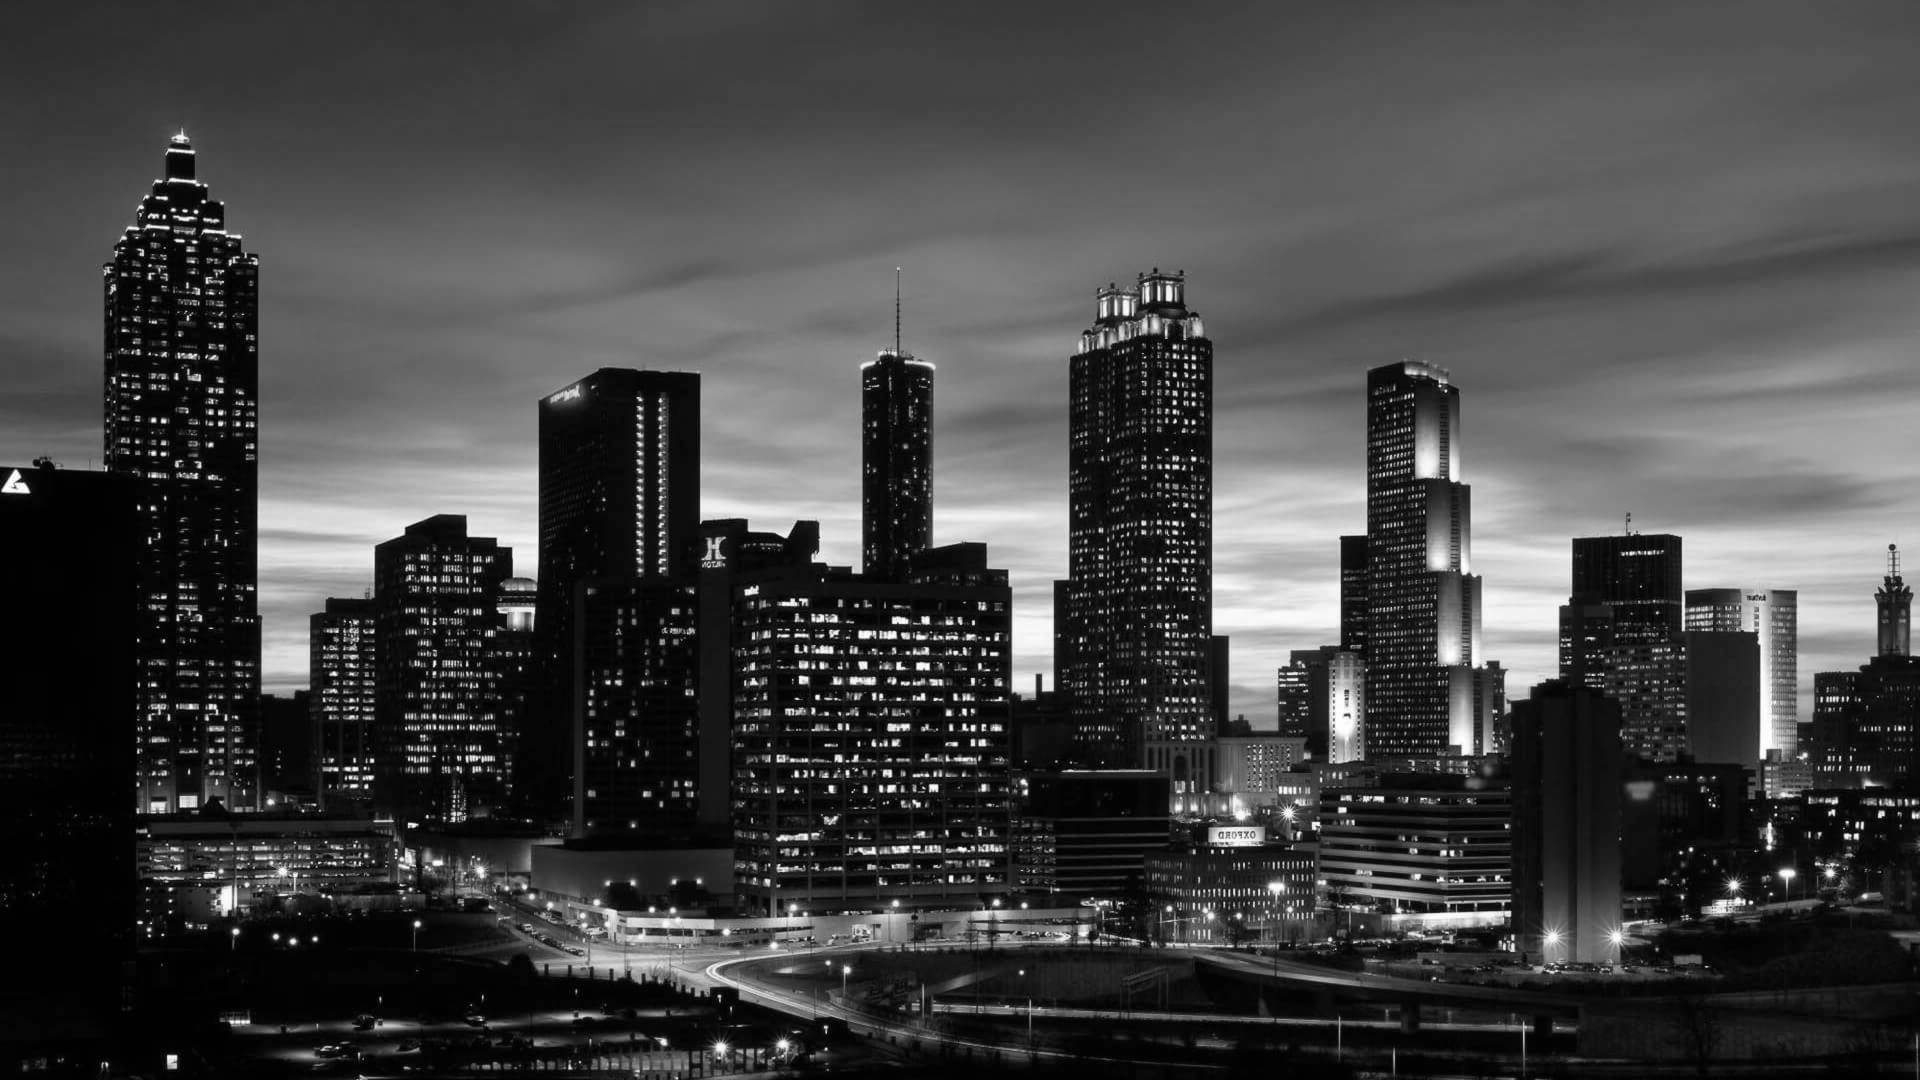
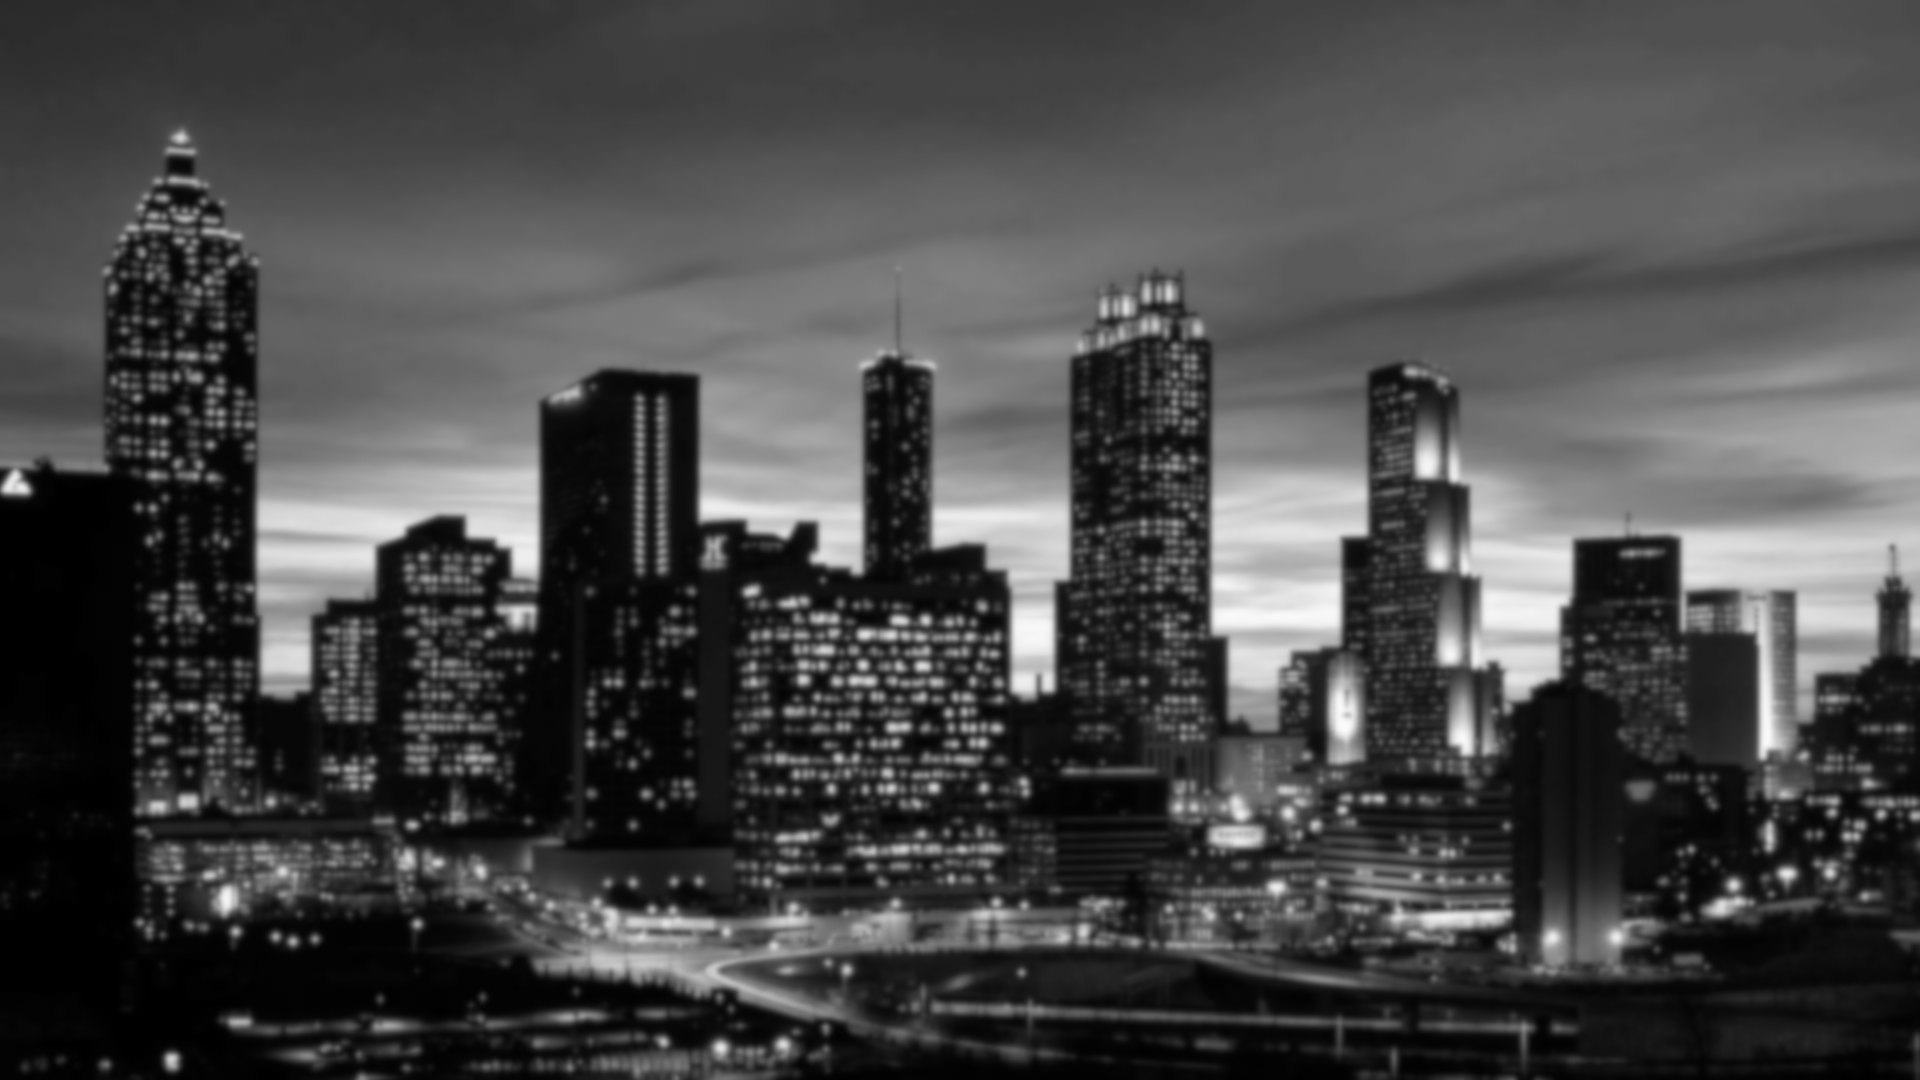
refact(CardMetodos): Separado o Header do Carousel de métodos

diff --git a/src/pages/home/Components/CardMetodos/index.tsx b/src/pages/home/Components/CardMetodos/index.tsx
@@ -1,6 +1,8 @@
 import React, { useRef } from 'react';
-import { Container, Image, Col, Carousel, Popover, OverlayTrigger } from 'react-bootstrap';
+import { Container, Image, Col, Popover, OverlayTrigger } from 'react-bootstrap';
+import Carousel from 'react-elastic-carousel';
 import homeStyles from "../../styles.module.scss";
+import styles from "./styles.module.scss";
 
 // Importacao das imagens
 import WordCloudImg from "../../../../assets/images/home/WordCloud.png";
@@ -12,8 +14,22 @@ import { FontAwesomeIcon } from '@fortawesome/react-fontawesome';
 import { faQuestionCircle } from '@fortawesome/free-solid-svg-icons';
 
 
+export const CardMetodosHeader = () => {
+    
+    return (
+        <Col className={homeStyles.maxW720}>
+            <h1 className="text-center mb-4">
+                Quais métodos o NLEaser oferece?
+            </h1>
+            <p className="fs-5 text-center">
+                Atualmente o NLEaser disponibiliza de 5 ferramentas para facilitar o seu trabalho.
+            </p>
+        </Col>
+    )
+}
 
-export const CardsFerramentas = () => {
+
+export const CardMetodos = () => {
     const ref=useRef(null);
 
 
@@ -51,21 +67,15 @@ export const CardsFerramentas = () => {
     ]
 
     return (
-        <Col className="m-auto w-100 h-100" ref={ref}>
-            <h1 className="text-center mb-4">
-                Quais metodos o NLEaser oferece?
-            </h1>
-            <p className="text-center fs-5">
-                Atualmente NLEaser detem de {Metodos.length} ferramentas para facilitar o seu trabalho.
-            </p>       
+        <Col className={`${styles.cardMetodos} p-2 h-100`}>            
             <Carousel className={`${homeStyles.maxW720} m-auto`}
-                id="carrouselMetodos" indicators={false} variant="dark" interval={null}
+               isRTL={false} pagination={false} ref={ref}
             >        
                 {
                     Metodos.map(metodo => {
                         return (
-                            <Carousel.Item className="bg-white text-center p-0 p-sm-1 p-md-2 pb-sm-2 pb-md-3">
-                                <Container className="d-flex justify-content-center">
+                            <Container className={`bg-white bg-opacity-75 text-black text-center p-0 p-sm-1 p-md-2 pb-sm-2 pb-md-3`}>
+                                <Container className="d-flex justify-content-center p-2 p-md-0">
                                     <h2>
                                         {metodo.title}
                                     </h2>
@@ -97,7 +107,7 @@ export const CardsFerramentas = () => {
                                     {metodo.desc}
                                 </p>
                                 <Image className="w-100" src={metodo.img}></Image>
-                            </Carousel.Item>   
+                            </Container>   
                         )
                     })
                 }  

diff --git a/src/pages/home/index.tsx b/src/pages/home/index.tsx
@@ -2,7 +2,7 @@ import { HeaderComponent } from "../../components/Header";
 import { CardIntroducao } from './Components/CardIntroducao';
 import { CardExplicacao } from './Components/CardExplicacao';
 import { CardBeneficios } from './Components/CardBeneficios';
-import { CardsFerramentas } from './Components/CardMetodos';
+import { CardMetodos, CardMetodosHeader } from './Components/CardMetodos';
 import { Footer } from "./Components/Footer";
 import { Container, Row } from "react-bootstrap";
 
@@ -15,7 +15,7 @@ export const OldHome = function(props) {
             <CardIntroducao/>
             <CardExplicacao/>
             <CardBeneficios/>
-            <CardsFerramentas/>
+            <CardMetodos/>
             <Footer/>
         </>
     )
@@ -34,9 +34,12 @@ export const Home = function (props) {
             <Row className={styles.row50 + " align-items-center justify-content-center"}>
                 <CardBeneficios />
             </Row>
-            <div className={"my-5 w-100 align-items-center justify-content-center"}>
-                <CardsFerramentas/>
-            </div>
+            <Row className={"my-5 align-items-center justify-content-center"}>
+                <CardMetodosHeader/>
+            </Row>
+            <Row className={"align-items-center justify-content-center"}>
+                <CardMetodos/>
+            </Row>
         </Container>
     )
 }

diff --git a/src/pages/home/Components/CardMetodos/styles.module.scss b/src/pages/home/Components/CardMetodos/styles.module.scss
@@ -1,0 +1,14 @@
+.cardMetodos { 
+    background-image: url("../../../../assets/images/home/Fundo_cidade.jpg");
+    background-position: center;
+    background-repeat: no-repeat; 
+    background-size: cover;
+    background-attachment: fixed;
+
+    display: flex;
+    flex-direction:column;
+}
+
+.cardMetodosBlur {
+    backdrop-filter: blur(4px);
+}
